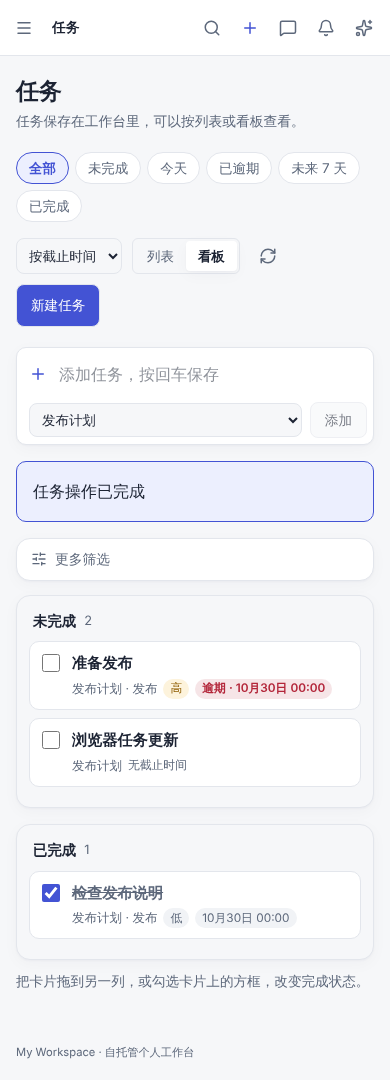
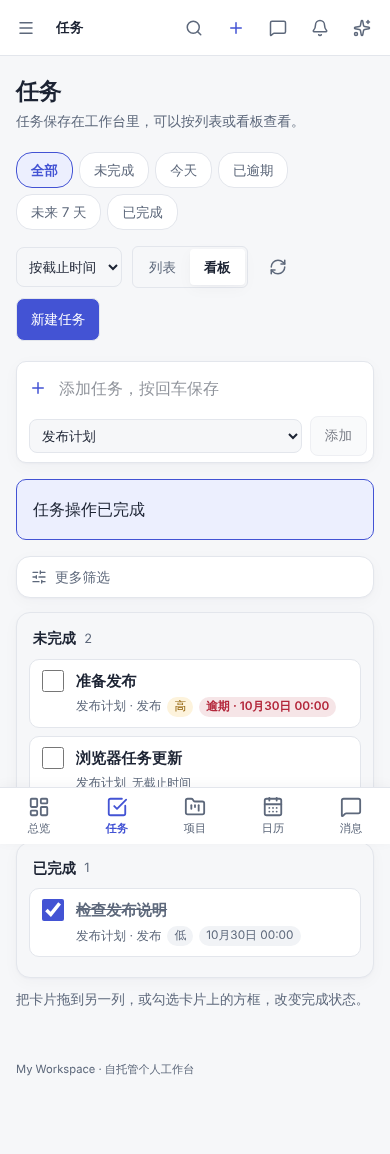
feat(web): 手机底部导航、触控尺寸与无障碍修正（T-0086）
- 手机（≤760px）底部导航：总览、任务、项目、日历，第五项 owner / admin 是消息（未读数）、
  其他角色是知识库；当前页标记；适配底部安全区（viewport-fit=cover）
- 手机触控尺寸：顶栏图标、视图切换、筛选标签、勾选框、按钮、日历日期加大
- axe-core 复查（本地工具，不进依赖）修掉月视图问题：grid 改为表格语义、不在当月日期的对比度、
  手机上不可点的装饰圆点；快速添加框的焦点环；减少动效偏好全局生效
- 测试：tests/bottom-nav.test.ts；ADR 追加第 4 批说明

Claude-Session: https://claude.ai/code/session_0171QGWM1UyBZv1vXTduEVXi

diff --git a/apps/web/src/style.css b/apps/web/src/style.css
@@ -218,7 +218,8 @@ fieldset { border: 0; padding: 0; margin: 0; min-width: 0; }
 .segmented button[aria-pressed="true"] { background: var(--surface); color: var(--text); font-weight: 600; box-shadow: var(--shadow); }
 .inline-select select { height: 36px; padding: 0 8px; font-size: .84rem; }
 .quick-add { display: flex; align-items: center; gap: 8px; padding: 6px 6px 6px 12px; margin-bottom: 14px; border: 1px solid var(--line); border-radius: var(--radius); background: var(--surface); box-shadow: var(--shadow); }
-.quick-add:focus-within { border-color: var(--accent); }
+/* 输入框本身不画 outline，整个快速添加框显示焦点环（T-0086） */
+.quick-add:focus-within { border-color: var(--accent); box-shadow: 0 0 0 3px color-mix(in srgb, var(--accent) 35%, transparent); }
 .quick-add-icon { width: 18px; height: 18px; color: var(--accent); flex-shrink: 0; }
 .quick-add input { flex: 1; min-width: 0; border: 0; background: none; padding: 8px 4px; }
 .quick-add input:focus-visible { outline: none; }
@@ -293,7 +294,8 @@ fieldset { border: 0; padding: 0; margin: 0; min-width: 0; }
   .welcome-panel h2 { font-size: 1.25rem; }
   .page-footer { padding: 20px 16px; }
 }
-@media (prefers-reduced-motion: reduce) { .sidebar, .nav-chevron { transition: none; } }
+/* 减少动效偏好：关掉所有过渡与动画（T-0086） */
+@media (prefers-reduced-motion: reduce) { *, *::before, *::after { transition-duration: .01ms !important; animation-duration: .01ms !important; animation-iteration-count: 1 !important; scroll-behavior: auto !important; } }
 
 /* GitHub projections and scoped search reuse existing theme tokens. */
 .github-list, .github-activity { display: grid; gap: 16px; }
@@ -474,7 +476,10 @@ fieldset { border: 0; padding: 0; margin: 0; min-width: 0; }
 .calendar-month-row .calendar-cell:last-child { border-right: 0; }
 .calendar-month-row:last-child .calendar-cell { border-bottom: 0; }
 .calendar-cell.is-outside { background: var(--bg); }
-.calendar-cell.is-outside .calendar-cell-date { color: var(--muted); opacity: .7; }
+.calendar-cell.is-outside .calendar-cell-date { color: var(--muted); font-weight: 400; }
+.calendar-dots { display: none; gap: 3px; }
+.calendar-dots i { width: 6px; height: 6px; border-radius: 3px; background: var(--accent); }
+.calendar-dots i.is-due { background: var(--warning); }
 .calendar-cell-date { align-self: flex-start; min-width: 26px; height: 26px; padding: 0 6px; border: 0; border-radius: 13px; background: none; color: var(--text); font-size: .8rem; font-weight: 600; }
 .calendar-cell-date:hover { background: var(--surface-2); }
 .calendar-cell.is-today .calendar-cell-date { background: var(--accent); color: var(--accent-text); }
@@ -483,9 +488,8 @@ fieldset { border: 0; padding: 0; margin: 0; min-width: 0; }
 .calendar-more { align-self: flex-start; padding: 0 4px; border: 0; background: none; color: var(--muted); font-size: .72rem; }
 @media (max-width: 760px) {
   .calendar-cell { min-height: 64px; padding: 4px 2px; align-items: center; }
-  .calendar-chip { font-size: 0; height: 6px; width: 6px; padding: 0; border-radius: 3px; background: var(--accent); }
-  .calendar-chip-due { background: var(--warning); }
-  .calendar-more { font-size: .64rem; }
+  .calendar-chip, .calendar-more { display: none; }
+  .calendar-dots { display: flex; }
   .calendar-month-head span { padding: 6px 2px; text-align: center; font-size: .7rem; }
 }
 
@@ -501,3 +505,26 @@ fieldset { border: 0; padding: 0; margin: 0; min-width: 0; }
 .project-progress progress::-webkit-progress-bar { background: var(--surface-2); border-radius: 3px; }
 .project-progress progress::-webkit-progress-value { background: var(--accent); border-radius: 3px; }
 .project-progress progress::-moz-progress-bar { background: var(--accent); border-radius: 3px; }
+
+/* 手机底部导航与触控尺寸（T-0086） */
+.bottom-nav { position: fixed; left: 0; right: 0; bottom: 0; z-index: 25; display: grid; grid-template-columns: repeat(5, minmax(0, 1fr)); padding-bottom: env(safe-area-inset-bottom); border-top: 1px solid var(--line); background: var(--surface); box-shadow: 0 -2px 12px #1c23330a; }
+.bottom-nav-link { display: flex; flex-direction: column; align-items: center; justify-content: center; gap: 2px; min-height: 56px; color: var(--muted); font-size: .7rem; }
+.bottom-nav-link.is-active { color: var(--accent); font-weight: 600; }
+.bottom-nav-icon { position: relative; display: inline-flex; }
+.bottom-nav-icon svg { width: 22px; height: 22px; }
+.bottom-nav-icon .count-badge { top: -6px; right: -10px; }
+.workspace-shell.has-bottom-nav .main-shell { padding-bottom: calc(56px + env(safe-area-inset-bottom)); }
+.workspace-shell.has-bottom-nav .sidebar { bottom: calc(56px + env(safe-area-inset-bottom)); }
+.workspace-shell.has-bottom-nav .nav-backdrop { bottom: calc(56px + env(safe-area-inset-bottom)); }
+@media (max-width: 760px) {
+  .shell-icon { min-width: 40px; height: 40px; }
+  .search-trigger, .create-trigger { width: 40px; height: 40px; }
+  .chip-button { height: 36px; padding: 0 14px; }
+  .segmented button { height: 36px; padding: 0 14px; }
+  .inline-select select { height: 40px; }
+  .task-check { width: 22px; height: 22px; margin-top: 0; }
+  .primary-button, .secondary-button { min-height: 40px; }
+  .calendar-cell-date { min-width: 32px; height: 32px; border-radius: 16px; }
+  .account-trigger { min-height: 44px; }
+  .nav-label { min-height: 36px; }
+}

diff --git a/apps/web/src/features/calendar/CalendarWorkspace.vue b/apps/web/src/features/calendar/CalendarWorkspace.vue
@@ -84,17 +84,20 @@ async function remove() {
   <div class="task-toolbar calendar-nav"><button class="secondary-button" @click="move(-1)">{{ view === 'month' ? '上个月' : '上一周' }}</button><p>{{ view === 'month' ? monthTitle : `${days[0]} — ${days[6]}` }} · {{ selected.zone }}</p><button class="secondary-button" @click="move(1)">{{ view === 'month' ? '下个月' : '下一周' }}</button></div>
   <MutationNotice v-if="!opened" :error="feedback" :message="message" :needs-reload="needsReload" :busy="busy" reload-label="重新加载日历" @reload="reset" />
   <DataState :loading="query.isPending.value" :error="query.error.value" :empty="!items.length && !dueItems.length" empty-text="此时间范围暂无日程。" :stale="!!items.length" @retry="query.isFetchNextPageError.value ? query.fetchNextPage() : query.refetch()" />
-  <section v-if="view === 'month'" class="panel calendar-month" role="grid" :aria-label="`${monthTitle}月历`">
+  <!-- 用表格语义（不是 grid：grid 需要方向键导航）；格子里的按钮与链接按 Tab 顺序访问（T-0086） -->
+  <div v-if="view === 'month'" class="panel calendar-month" role="table" :aria-label="`${monthTitle}月历`">
     <div class="calendar-month-head" role="row"><span v-for="name in ['一', '二', '三', '四', '五', '六', '日']" :key="name" role="columnheader">周{{ name }}</span></div>
     <div v-for="week in 6" :key="week" class="calendar-month-row" role="row">
-      <div v-for="cell in cells.slice((week - 1) * 7, week * 7)" :key="cell.day" role="gridcell" class="calendar-cell" :class="{ 'is-outside': !cell.inMonth, 'is-today': cell.day === today }" :aria-label="`${cell.day}，${cell.events.length} 个日程${cell.due.length ? `，${cell.due.length} 个任务截止` : ''}`">
+      <div v-for="cell in cells.slice((week - 1) * 7, week * 7)" :key="cell.day" role="cell" class="calendar-cell" :class="{ 'is-outside': !cell.inMonth, 'is-today': cell.day === today }" :aria-label="`${cell.day}，${cell.events.length} 个日程${cell.due.length ? `，${cell.due.length} 个任务截止` : ''}`">
         <button type="button" class="calendar-cell-date" :aria-label="`查看 ${cell.day} 所在的一周`" @click="openWeek(cell.day)">{{ Number(cell.day.slice(8)) }}</button>
         <button v-for="event in cell.events.slice(0, MONTH_SHOWN)" :key="event.id" type="button" class="calendar-chip" :title="eventTime(event)" @click="opened = event">{{ event.all_day ? '' : localDateTime(event.start_at, selected.zone).slice(11) + ' ' }}{{ event.title }}</button>
         <RouterLink v-for="task in cell.due.slice(0, Math.max(0, MONTH_SHOWN - cell.events.length))" :key="task.id" class="calendar-chip calendar-chip-due" :to="{ path: '/tasks', query: { task: task.id } }" :aria-label="`任务截止：${task.title}`">截止 {{ task.title }}</RouterLink>
         <button v-if="cell.events.length + cell.due.length > MONTH_SHOWN" type="button" class="calendar-more" @click="openWeek(cell.day)">还有 {{ cell.events.length + cell.due.length - MONTH_SHOWN }} 项</button>
+        <!-- 手机上只显示圆点（不可点，点日期进入那一周） -->
+        <span v-if="cell.events.length + cell.due.length" class="calendar-dots" aria-hidden="true"><i v-for="n in Math.min(cell.events.length, 3)" :key="`e${n}`"></i><i v-for="n in Math.min(cell.due.length, Math.max(0, 3 - cell.events.length))" :key="`d${n}`" class="is-due"></i></span>
       </div>
     </div>
-  </section>
+  </div>
   <div v-else :class="view === 'week' ? 'calendar-week' : 'calendar-agenda'"><section v-for="group in groups" :key="group.day" class="panel calendar-day" role="region" :aria-label="group.day"><h2>{{ group.day }}</h2><article v-for="event in group.events" :key="event.id" class="calendar-record"><button class="task-title" @click="opened = event">{{ event.title }}</button><p class="form-help">{{ eventTime(event) }}</p><p class="note-text">{{ event.location }}</p></article><article v-for="task in group.due" :key="task.id" class="calendar-record calendar-deadline" :aria-label="`任务截止：${task.title}`"><span class="badge">任务截止</span> <RouterLink class="task-title" :to="{ path: '/tasks', query: { task: task.id } }">{{ task.title }}</RouterLink><span v-if="task.done" class="badge">已完成</span><p class="form-help">{{ dueTime(task) }} 截止 · 只读（在任务页修改）</p></article><p v-if="!group.events.length && !group.due.length" class="form-help">暂无日程</p></section></div>
   <p v-if="deadlines.error.value && !blocked" class="note-text">任务截止日期暂时无法加载：{{ errorMessage(deadlines.error.value) }}</p>
   <p v-else-if="deadlines.data.value?.next_cursor" class="note-text">这段时间截止的任务超过 100 个，只显示前 100 个；完整列表见任务页。</p>

diff --git a/apps/web/tests/bottom-nav.test.ts b/apps/web/tests/bottom-nav.test.ts
@@ -1,0 +1,43 @@
+// 手机底部导航（T-0086）：只在窄屏显示；owner / admin 第五项是消息（带未读数），其他角色是知识库
+import { screen, within } from '@testing-library/vue'
+import { describe, expect, it, vi } from 'vitest'
+import { me, mockApi, openApp, workspace } from './helpers'
+
+const pathOf = (r: Request) => new URL(r.url).pathname
+// 窄屏：所有 min-width 查询都不匹配
+function phone() {
+  vi.stubGlobal('matchMedia', (query: string) => ({ matches: !query.includes('min-width'), media: query, addEventListener: () => {}, removeEventListener: () => {} }))
+}
+// 按可访问名称逐个确认，并确认一共 5 项（角标数字是 aria-hidden 的）
+function expectLinks(nav: HTMLElement, labels: string[]) {
+  expect(within(nav).getAllByRole('link')).toHaveLength(labels.length)
+  for (const name of labels) expect(within(nav).getByRole('link', { name })).toBeVisible()
+}
+
+describe('手机底部导航', () => {
+  it('shows the five main pages with messages and unread count for an owner', async () => {
+    phone()
+    mockApi((r) => (pathOf(r) === '/api/v1/im/badges' ? Response.json({ im_unread: 4, pending_approvals: 0 }) : undefined))
+    await openApp('/tasks')
+    const nav = await screen.findByRole('navigation', { name: '底部导航' })
+    await vi.waitFor(() => expectLinks(nav, ['总览', '任务', '项目', '日历', '消息，4 条未读']))
+    expect(within(nav).getByRole('link', { name: '任务' })).toHaveAttribute('aria-current', 'page')
+    expect(within(nav).getByRole('link', { name: '消息，4 条未读' })).toHaveAttribute('href', '/im')
+  })
+
+  it('offers the knowledge base instead of messages to members', async () => {
+    phone()
+    mockApi((r) => (pathOf(r) === '/api/v1/me' ? Response.json({ ...me, workspaces: [{ ...workspace, role: 'member' }] }) : undefined))
+    await openApp('/')
+    const nav = await screen.findByRole('navigation', { name: '底部导航' })
+    expectLinks(nav, ['总览', '任务', '项目', '日历', '知识库'])
+    expect(within(nav).getByRole('link', { name: '总览' })).toHaveAttribute('aria-current', 'page')
+  })
+
+  it('is not shown on wide screens', async () => {
+    mockApi()
+    await openApp('/')
+    await screen.findByRole('navigation', { name: '主导航' })
+    expect(screen.queryByRole('navigation', { name: '底部导航' })).not.toBeInTheDocument()
+  })
+})

diff --git a/apps/web/src/App.vue b/apps/web/src/App.vue
@@ -13,6 +13,8 @@ import ImHeaderBadges from './features/im/ImHeaderBadges.vue'
 import AppDrawer from './components/AppDrawer.vue'
 import CreateMenu from './components/CreateMenu.vue'
 import AccountMenu from './components/AccountMenu.vue'
+import BottomNav from './components/BottomNav.vue'
+import { useMediaQuery } from './composables/useMediaQuery'
 import { useDrawerStore } from './stores/drawer'
 import { useWorkspaceEvents } from './features/events/useWorkspaceEvents'
 import { useCollapsedSections } from './composables/useCollapsedSections'
@@ -50,12 +52,15 @@ const pageTitle = computed(() => String(route.meta.title ?? 'My Workspace'))
 watch(() => route.path, () => { menuOpen.value = false })
 watch(() => currentEntry.value?.section, (section) => { if (section && collapsed.value.includes(section)) toggleSection(section) }, { immediate: true })
 watch(pageTitle, (title) => { document.title = `${title} · My Workspace` }, { immediate: true })
+// 手机上显示底部导航（T-0086）。按桌面宽度查询再取反：没有 matchMedia 的环境（jsdom）按桌面处理
+const wide = useMediaQuery('(min-width: 761px)')
+const bottomNav = computed(() => !wide.value && !!auth.user && !!auth.workspaceId)
 const themeLabel = computed(() => (theme.theme === 'light' ? '切换到暗色主题' : '切换到亮色主题'))
 </script>
 
 <template>
   <a class="skip-link" href="#main-content">跳到主要内容</a>
-  <div class="workspace-shell" @keydown="closeMenu">
+  <div class="workspace-shell" :class="{ 'has-bottom-nav': bottomNav }" @keydown="closeMenu">
     <aside v-if="auth.user" id="sidebar" class="sidebar" :class="{ 'is-open': menuOpen }">
       <RouterLink class="brand" to="/" aria-label="My Workspace 首页">
         <span class="brand-mark" aria-hidden="true">W</span>
@@ -109,5 +114,6 @@ const themeLabel = computed(() => (theme.theme === 'light' ? '切换到暗色主
       <footer class="page-footer">My Workspace · 自托管个人工作台</footer>
     </div>
     <AppDrawer />
+    <BottomNav v-if="bottomNav" :key="`${auth.user?.id}:${auth.workspaceId}:${auth.canManage}`" />
   </div>
 </template>

diff --git a/apps/web/tests/calendar-pages.test.ts b/apps/web/tests/calendar-pages.test.ts
@@ -65,9 +65,9 @@ describe('本地日历', () => {
     const requests = calendar((r) => path(r) === '/api/v1/tasks' ? Response.json({ items: [due], sync, next_cursor: null, total_estimate: 1 }) : undefined)
     await openCalendar()
     await fireEvent.click(screen.getByRole('button', { name: '月视图' }))
-    const grid = await screen.findByRole('grid', { name: '2026年10月月历' })
+    const grid = await screen.findByRole('table', { name: '2026年10月月历' })
     // 6 周 42 天，从 9 月 28 日（周一）开始
-    const cells = within(grid).getAllByRole('gridcell')
+    const cells = within(grid).getAllByRole('cell')
     expect(cells).toHaveLength(42)
     expect(cells[0]).toHaveAccessibleName(/^2026-09-28/)
     expect(cells[0]).toHaveClass('is-outside')
@@ -76,7 +76,7 @@ describe('本地日历', () => {
     // 读取范围覆盖整个网格（含两天时区余量），不超过接口的 92 天上限
     await vi.waitFor(() => expect(requests.some((r) => path(r) === '/api/v1/calendar/events' && new URL(r.url).searchParams.get('start') === '2026-09-25T16:00:00.000Z')).toBe(true))
     await fireEvent.click(screen.getByRole('button', { name: '下个月' }))
-    expect(await screen.findByRole('grid', { name: '2026年11月月历' })).toBeVisible()
+    expect(await screen.findByRole('table', { name: '2026年11月月历' })).toBeVisible()
     await fireEvent.click(screen.getByRole('button', { name: '上个月' }))
     await fireEvent.click(await screen.findByRole('button', { name: '查看 2026-10-14 所在的一周' }))
     expect(screen.getByRole('button', { name: '周视图' })).toHaveAttribute('aria-pressed', 'true')

diff --git a/apps/web/src/components/BottomNav.vue b/apps/web/src/components/BottomNav.vue
@@ -1,0 +1,26 @@
+<script setup lang="ts">
+import { computed } from 'vue'
+import { RouterLink } from 'vue-router'
+import { useAuthStore } from '../stores/auth'
+import { navIcon } from '../app/navIcons'
+import { useImBadges } from '../features/im/queries'
+
+// 手机底部导航（T-0086）：最常用的 5 个页面；其余页面在“切换导航”打开的侧栏里。
+// 消息只给 owner / admin（与侧栏、路由守卫一致），其他角色第五项是知识库。
+const auth = useAuthStore()
+const badges = auth.canManage && auth.workspaceId ? useImBadges(auth.workspaceId) : null
+const items = computed(() => [
+  { path: '/', title: '总览' }, { path: '/tasks', title: '任务' }, { path: '/projects', title: '项目' }, { path: '/calendar', title: '日历' },
+  auth.canManage ? { path: '/im', title: '消息' } : { path: '/knowledge', title: '知识库' },
+])
+const unread = computed(() => badges?.data.value?.im_unread ?? 0)
+</script>
+
+<template>
+  <nav class="bottom-nav" aria-label="底部导航">
+    <RouterLink v-for="item in items" :key="item.path" :to="item.path" class="bottom-nav-link" exact-active-class="is-active" :aria-label="item.path === '/im' && unread ? `消息，${unread} 条未读` : undefined">
+      <span class="bottom-nav-icon"><component :is="navIcon(item.path)" aria-hidden="true" /><span v-if="item.path === '/im' && unread" class="count-badge" aria-hidden="true">{{ unread > 99 ? '99+' : unread }}</span></span>
+      <span>{{ item.title }}</span>
+    </RouterLink>
+  </nav>
+</template>

diff --git a/apps/web/index.html b/apps/web/index.html
@@ -2,7 +2,7 @@
 <html lang="zh-CN">
   <head>
     <meta charset="UTF-8" />
-    <meta name="viewport" content="width=device-width, initial-scale=1.0" />
+    <meta name="viewport" content="width=device-width, initial-scale=1.0, viewport-fit=cover" />
     <meta name="color-scheme" content="light dark" />
     <meta name="description" content="My Workspace 自托管个人工作台" />
     <title>My Workspace</title>

diff --git a/.collab/tasks/T-0086-ui-mobile-a11y.md b/.collab/tasks/T-0086-ui-mobile-a11y.md
@@ -1,0 +1,36 @@
+---
+id: T-0086
+title: UI 优化第 4 批：手机底部导航、触控尺寸、无障碍复查
+owner: claude
+status: done
+priority: P2
+branch: claude/cool-wright-99qbbg
+paths: apps/web,tests/e2e,docs
+depends_on:
+created: 2026-11-03
+updated: 2026-11-03
+---
+
+# T-0086 UI 优化第 4 批：手机底部导航、触控尺寸、无障碍复查
+
+## 目标
+人类要求（2026-11-02 / 11-03）：「给我重新优化一下整个工作台的 UI 以及功能」「继续做第 4 批」。第 4 批：手机与无障碍。
+手机上常用页面要点开侧栏才能切换；部分按钮（视图切换、勾选框）在手机上偏小；前 3 批改动后需要一次整体的无障碍复查。
+
+## 验收标准
+- [x] 手机（≤760px）底部导航：总览、任务、项目、日历，第五项 owner / admin 是消息（带未读数）、其他角色是知识库；标出当前页；适配底部安全区；桌面不显示
+- [x] 手机上的触控尺寸：顶栏图标、视图切换、筛选标签、勾选框、日历日期等至少 40px 左右的点按区域
+- [x] 无障碍复查：用 axe-core 扫描主要页面（亮 / 暗 / 手机），修掉发现的问题；键盘可达、焦点可见、减少动效偏好
+- [x] 前端 lint / typecheck / test / build / check:api 通过；浏览器截图验收；受影响的 e2e 脚本同步更新
+
+## 背景 / 约束 / 参考
+- 只改前端，接口不变；axe-core 只作为本地检查工具，不加入项目依赖。
+- 依赖 T-0083 ~ T-0085。
+
+## 进度日志
+<!-- 只追加不改写；scripts/collab.py 会自动写入。格式：- 时间 · 身份 · 内容 -->
+- 2026-11-03 00:27 UTC · claude · 创建任务（owner: unassigned）
+- 2026-11-03 00:27 UTC · human · owner unassigned → claude：人类在对话中指派：继续做第 4 批（手机底部导航、触控尺寸、无障碍复查）
+- 2026-11-03 00:27 UTC · claude · 开始任务
+- 2026-11-03 00:43 UTC · claude · 完成：手机底部导航（BottomNav.vue，5 项，消息带未读数，viewer/member 第五项为知识库，安全区适配，侧栏停在其上方）；手机触控尺寸；axe-core 4.11.4（仅本地）扫描 17 个页面 + 登录页（亮 / 暗 / 390px），修掉月视图的 role=grid、对比度 2.88、6px 可点圆点 3 个问题后 0 个问题；键盘 Tab 检查焦点全部可见（快速添加框加焦点环）；减少动效全局生效。新增 tests/bottom-nav.test.ts；ADR 追加第 6 节。
+- 2026-11-03 00:43 UTC · claude · status in_progress → done：UI 第 4 批（手机与无障碍）完成：web lint / typecheck / test 362 / build / check:api 通过；axe 0 个问题；键盘焦点检查通过；前 3 批的浏览器检查重跑通过

diff --git a/docs/decisions/2026-11-02-ui-shell-refresh.md b/docs/decisions/2026-11-02-ui-shell-refresh.md
@@ -87,3 +87,21 @@ UI 优化分四批，每批一个任务：本批（T-0083）只改外框；
 4. **日历月视图**：6 周网格，从当月 1 日所在那周的周一开始；每格最多显示 3 项（日程按开始时刻，任务截止为黄色、只读、链接到任务），
    多出的显示“还有 N 项”；标出今天与不在当月的日子；上个月 / 下个月；点日期切到那一周的周视图。读取范围是 42 天加前后各两天的
    时区余量，在日历接口 92 天的上限内。手机上每格只显示圆点（文字仍保留给读屏）。
+
+## 6. 第 4 批：手机与无障碍（T-0086）
+
+只改前端，接口不变。
+
+1. **手机底部导航**（≤760px）：总览、任务、项目、日历，第五项 owner / admin 是消息（未读数角标，名称“消息，N 条未读”），
+   其他角色是知识库（与侧栏、路由守卫一致）；当前页 `aria-current="page"`；适配底部安全区（`viewport-fit=cover` + `env(safe-area-inset-bottom)`），
+   打开的侧栏停在底部导航上方。是否显示用 `useMediaQuery('(min-width: 761px)')` 取反：没有 matchMedia 的环境（jsdom）按桌面处理，
+   现有测试不受影响。
+2. **触控尺寸**（手机）：顶栏图标 40px，视图切换与筛选标签 36px 高，勾选框 22px，按钮至少 40px，日历日期 32px，账户区 44px。
+3. **无障碍复查**：用 axe-core 4.11.4（只装在本地临时目录，不进项目依赖）按 WCAG 2.0 / 2.1 / 2.2 A、AA 与 best-practice
+   扫描总览、任务、项目、日历（周 / 月）、知识库、设置、安全设置、登录页（亮 / 暗 / 390px），以及开发者、运维、自动化、AI 审批、
+   OpenClaw 实例、集成设置、密钥库、审计日志、消息（亮 / 暗）。发现并修掉的问题都在第 3 批的月视图：
+   - `section` 上不能用 `role="grid"`，而且 grid 需要方向键导航：改成表格语义（`role="table"` / `row` / `columnheader` / `cell`），格子里的按钮与链接按 Tab 访问；
+   - 不在当月的日期对比度 2.88:1：去掉半透明，改用正常的次要文字颜色；
+   - 手机上 6px 的圆点是可点的目标：改成不可点的装饰圆点（`aria-hidden`），点日期进入那一周。
+   修完后上述页面 0 个问题。键盘检查：从顶部连续按 Tab，侧栏、顶栏、视图切换、快速添加、任务行都能到达且焦点可见
+   （快速添加框改为整个框显示焦点环）。减少动效偏好改为全局关闭过渡与动画。
